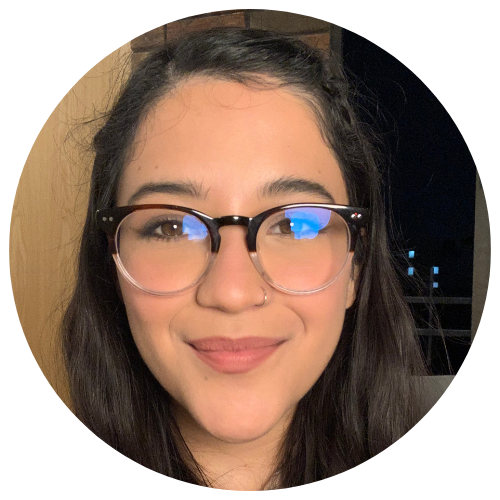
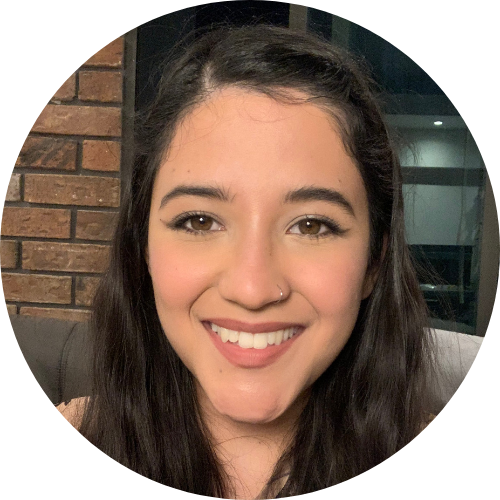
Change photo index and experience

diff --git a/content/experience/index.md b/content/experience/index.md
@@ -22,47 +22,11 @@ draft: false
 		<td>Java Full Stack Jr</td>
 		<td>CDMX, México</td>
 	</tr>
-# Understanding B-Trees
-
-A B-tree is a self-balancing tree data structure that maintains data in a sorted order and allows for efficient insertion, deletion, and searching operations. It's widely used in databases and file systems to store and manage large amounts of data.
-
-## Key Characteristics
-
-- **Balanced Structure:** B-trees are balanced trees, meaning that all leaf nodes are at the same level. This balance ensures efficient operations.
-
-- **Arbitrary Degree:** A B-tree can have any number of child nodes for each internal node. The degree of a B-tree is a measure of its capacity.
-
-- **Sorted Data:** Data in a B-tree is organized in a sorted order. Each node stores a range of values, and the values within a node are in ascending order.
-
-## Components of a B-Tree
-
-A B-tree consists of the following components:
-
-- **Root Node:** The topmost node of the tree.
-
-- **Internal Nodes:** Nodes that have child nodes. They store key values used to guide the search.
-
-- **Leaf Nodes:** The bottom-level nodes that contain the actual data.
-
-- **Keys:** Values that are stored in internal nodes to guide the search.
-
-## Insertion and Deletion
-
-When you insert or delete data in a B-tree, it maintains its balance by redistributing values between nodes, splitting or merging nodes when necessary. This ensures that the tree remains balanced and efficient.
-
-## Searching
-
-Searching in a B-tree is efficient due to its balanced structure. The tree can be traversed from the root to the leaf nodes in a logarithmic number of steps, making it suitable for large datasets.
-
-## Use Cases
-
-B-trees are commonly used in:
-
-- Databases to index and search data efficiently.
-- File systems to organize and manage files and directories.
-- Disk-based data structures where data retrieval and modification performance are critical.
-
-B-trees are a fundamental data structure in computer science, and understanding them is important for efficient data management and storage.
-
+	<tr>
+		<td><img class="customLogo medium-zoom-image" src="logoUAm.svg"/></td>
+		<td><a href="https://www.sitrack.mx/portal/">UAM Azcapotzalco </a></td>
+		<td>Ayudante</td>
+		<td>CDMX, México</td>
+	</tr>
 </tbody>
 </table>
